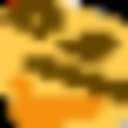
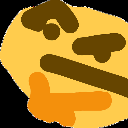
resolution fix

diff --git a/iconGen.py b/iconGen.py
@@ -116,6 +116,7 @@ def main():
     img = imread(filename)
 
     area_selected = False
+    min_x, min_y, max_x, max_y = 0, 0, 0, 0
     if not argv.full:
         imshow("Area Selection", img)
         cv2.setMouseCallback("Area Selection", mouse_callback, img)
@@ -235,7 +236,7 @@ def main():
         else:
             print("Generating icons to existing directory %s" % output_directory)
         for size in (16, 19, 38, 48, 128):
-            cropped_img = cv2.resize(cropped_img, (size, size))
+            cropped_img = cv2.resize(img[min_y:max_y, min_x:max_x], (size, size))
             cv2.imwrite(
                 path.join(output_directory, "to_" + str(size) + ".png"), cropped_img
             )
